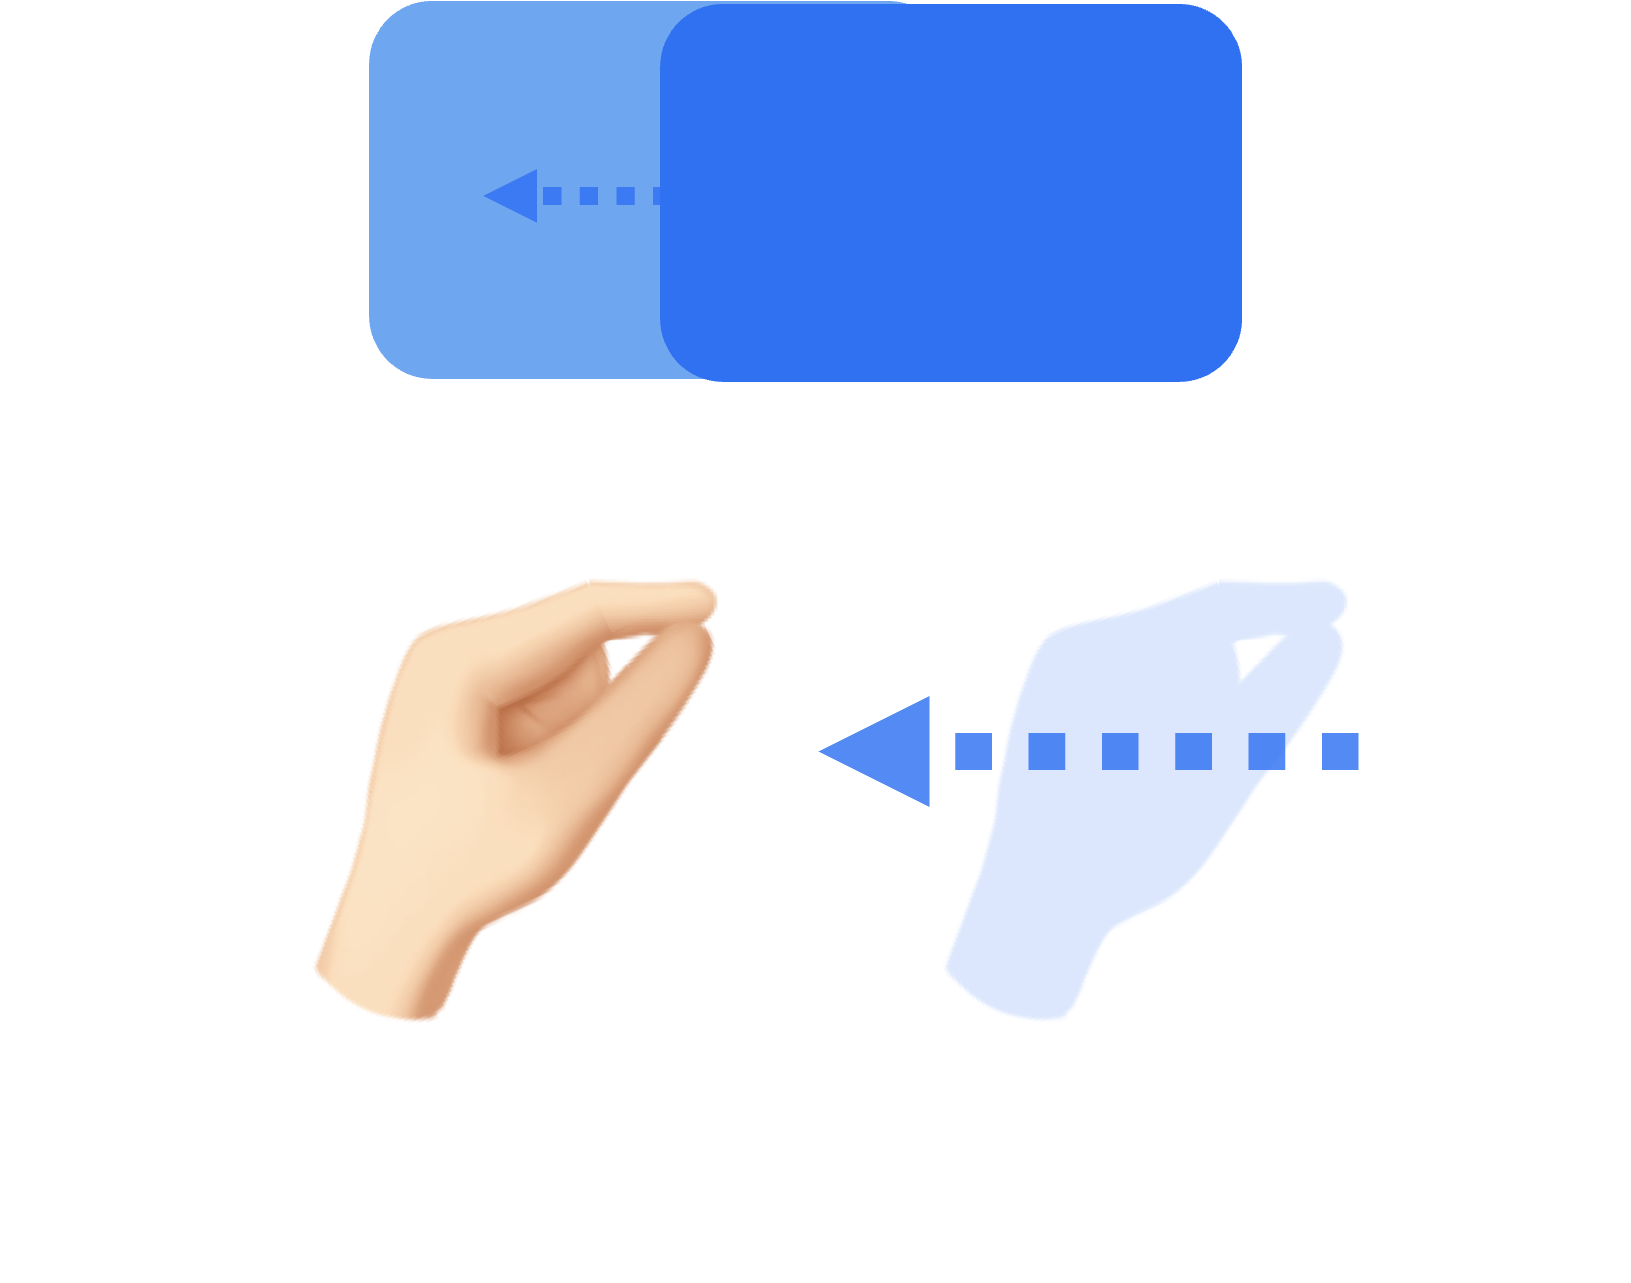
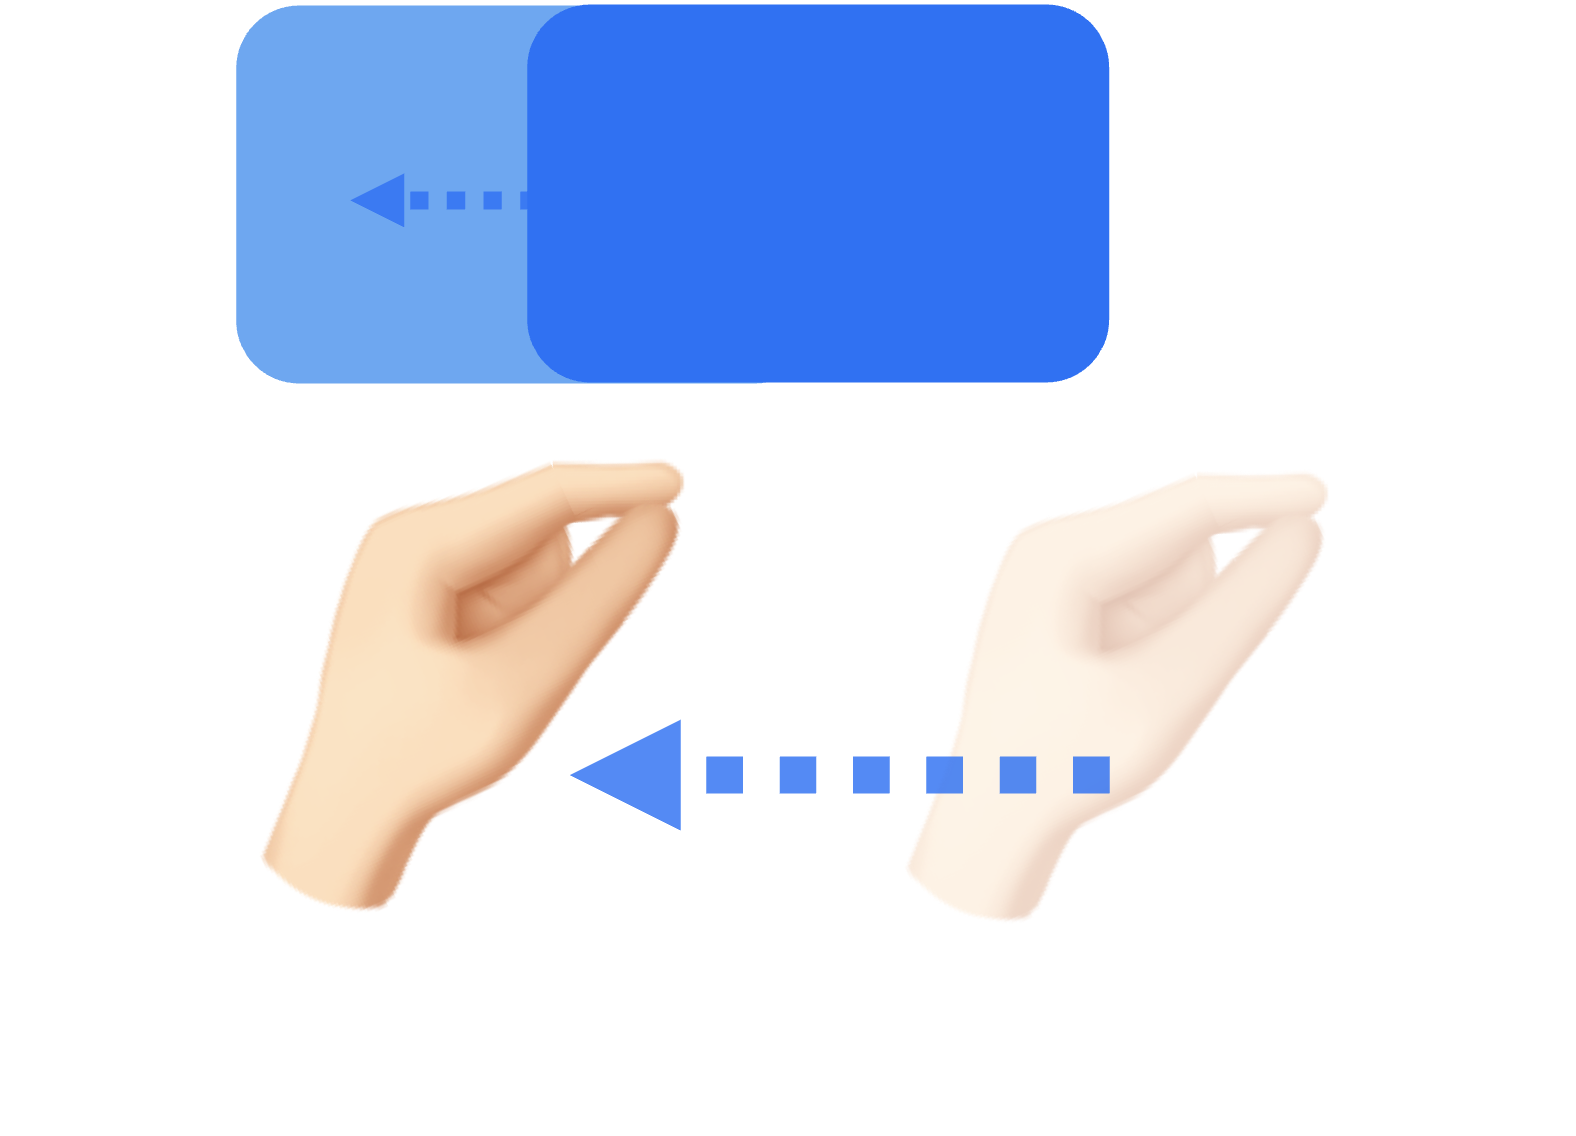
feat: guide tab control

Changed region(s): [[0.1555, 0.4005, 0.8395, 0.8319], [0.1244, 0.0, 0.7773, 0.3389]]

diff --git a/Gesto/src/renderer/src/pages/Guide.tsx b/Gesto/src/renderer/src/pages/Guide.tsx
@@ -6,6 +6,9 @@ import dragImage from '../assets/img/drag-slide.png'
 import pointerImage from '../assets/img/pointer.png'
 import zpImage from '../assets/img/zoom-pointer.png'
 import zoomImage from '../assets/img/zoom.png'
+import tabImage from '../assets/img/tab-control.png'
+import tabOnImage from '../assets/img/tab-on.png'
+import tabOffImage from '../assets/img/tab-off.png'
 
 function Guide(): JSX.Element {
   const [selectedSection, setSelectedSection] = useState('slide') // 선택된 섹션을 상태로 관리
@@ -52,7 +55,6 @@ function Guide(): JSX.Element {
         </div>
       </div>
       <div className="page-box">
-        {/* 선택된 섹션에 따라 해당하는 내용을 보여줌 */}
         {selectedSection === 'slide' && (
           <div className="guide-section">
             <img className="img-guide" src={holdImage} width="200" alt="" />
@@ -99,6 +101,14 @@ function Guide(): JSX.Element {
         )}
         {selectedSection === 'tabcontrol' && (
           <div className="guide-section">
+            <img className="img-guide" src={tabOnImage} width="400" alt="" />
+            <h3 className="gesture-desc">최상단 영역을 클릭하여 탭을 내릴 수 있습니다.</h3>
+            <img className="img-guide" src={tabImage} width="400" alt="" />
+            <h3 className="gesture-desc">
+              홀드 제스처를 취한 채로 좌우로 움직이면 빠르게 다른 슬라이드로 이동할 수 있습니다.
+            </h3>
+            <img className="img-guide" src={tabOffImage} width="400" alt="" />
+            <h3 className="gesture-desc">하단 영역을 클릭하여 탭을 올릴 수 있습니다.</h3>
           </div>
         )}
       </div>
